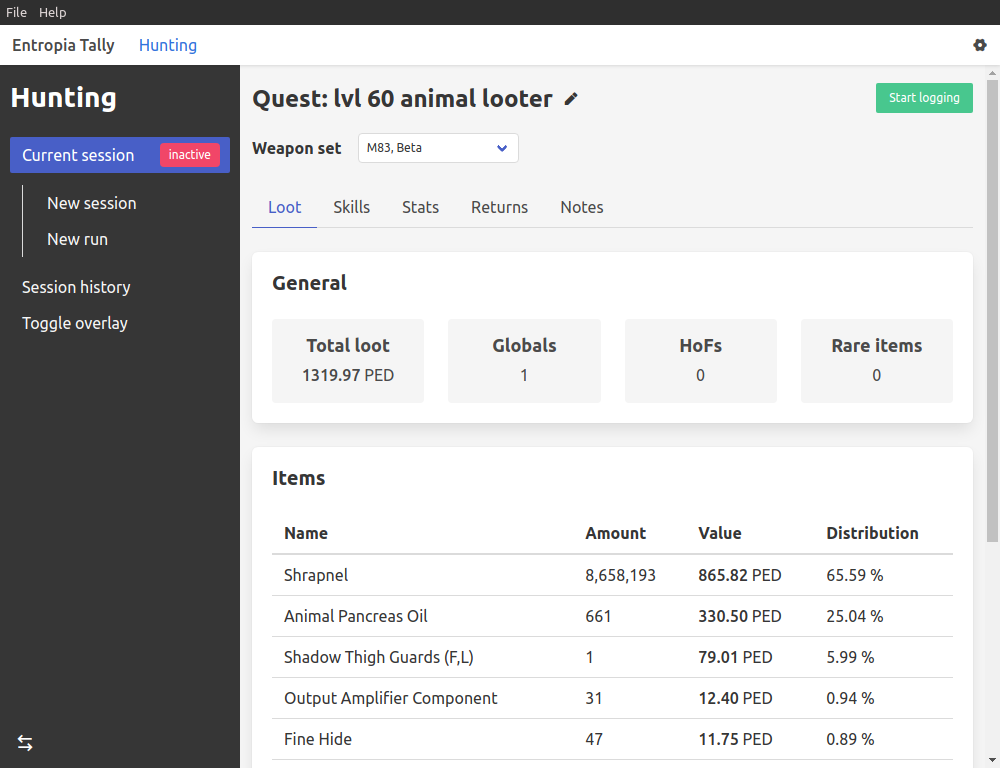
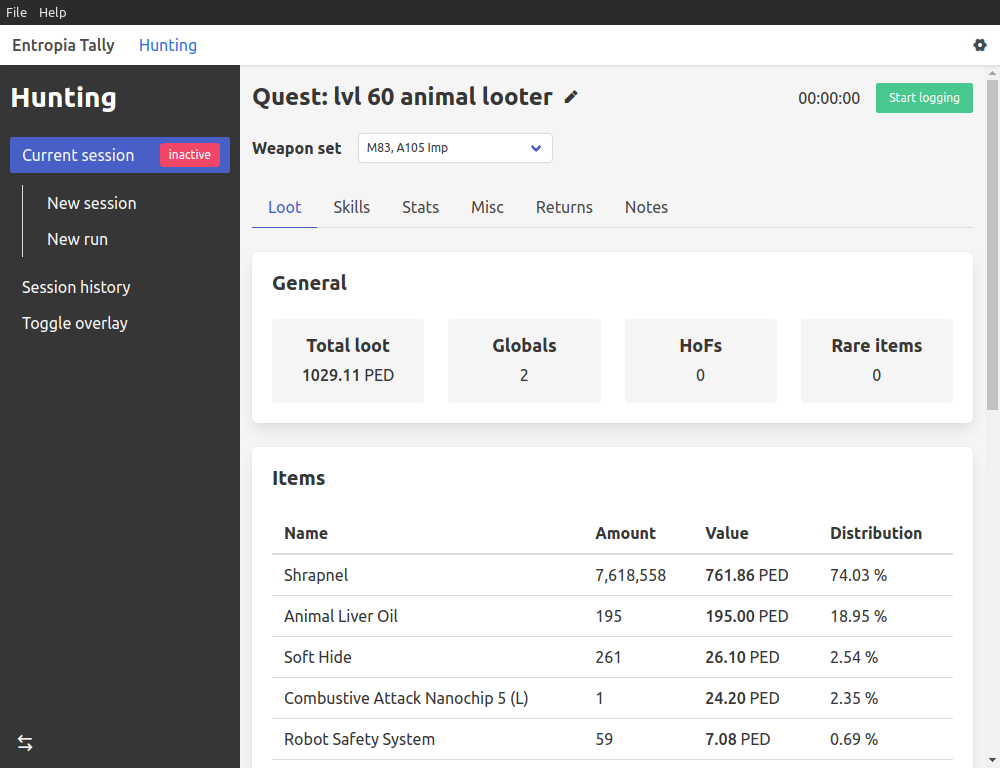
chore: update for v0.9.0

diff --git a/_pages/about.md b/_pages/about.md
@@ -14,20 +14,22 @@ Entropia Tally is a tracking software for the MMO Entropia Universe. Initially f
   - Offense & Defense statistics
   - Enhancer breaks & Tier increases
   - Kill count
-- Simple item loot graphs
-- Stats for multiple runs
+  - Session time
+- Hunting returns
+- Graphs (item, returns over time)
+- Combined stats for multiple runs
 - Saves data historically
 - Weapon sets
-- Hunting returns
 - Hunting notes
 - Overlay
-- Session time
 
 ## Images
 
 ![](/images/tally_loot.png)
 ![](/images/tally_stats.png)
+![](/images/tally_skills.png)
 ![](/images/tally_returns.png)
 ![](/images/tally_session_history.png)
 ![](/images/tally_history.png)
 ![](/images/tally_overlay.png)
+![](/images/tally_dark.png)
